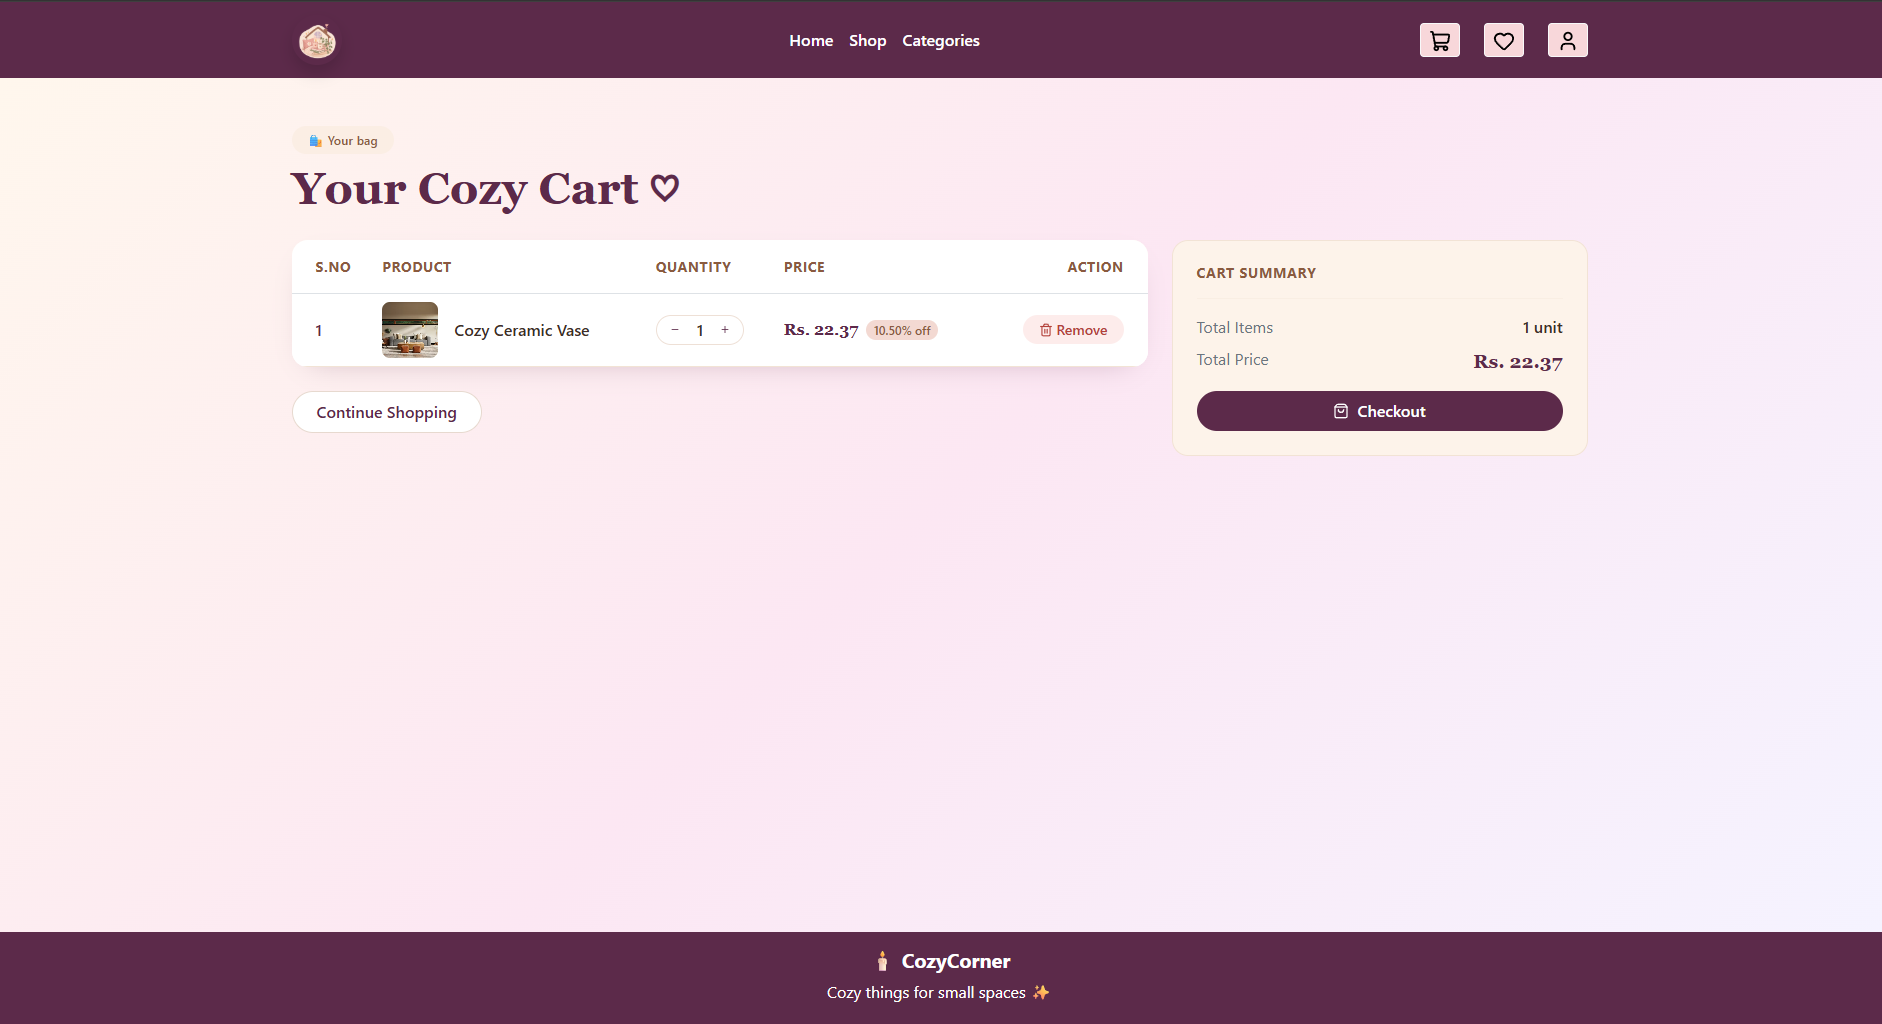
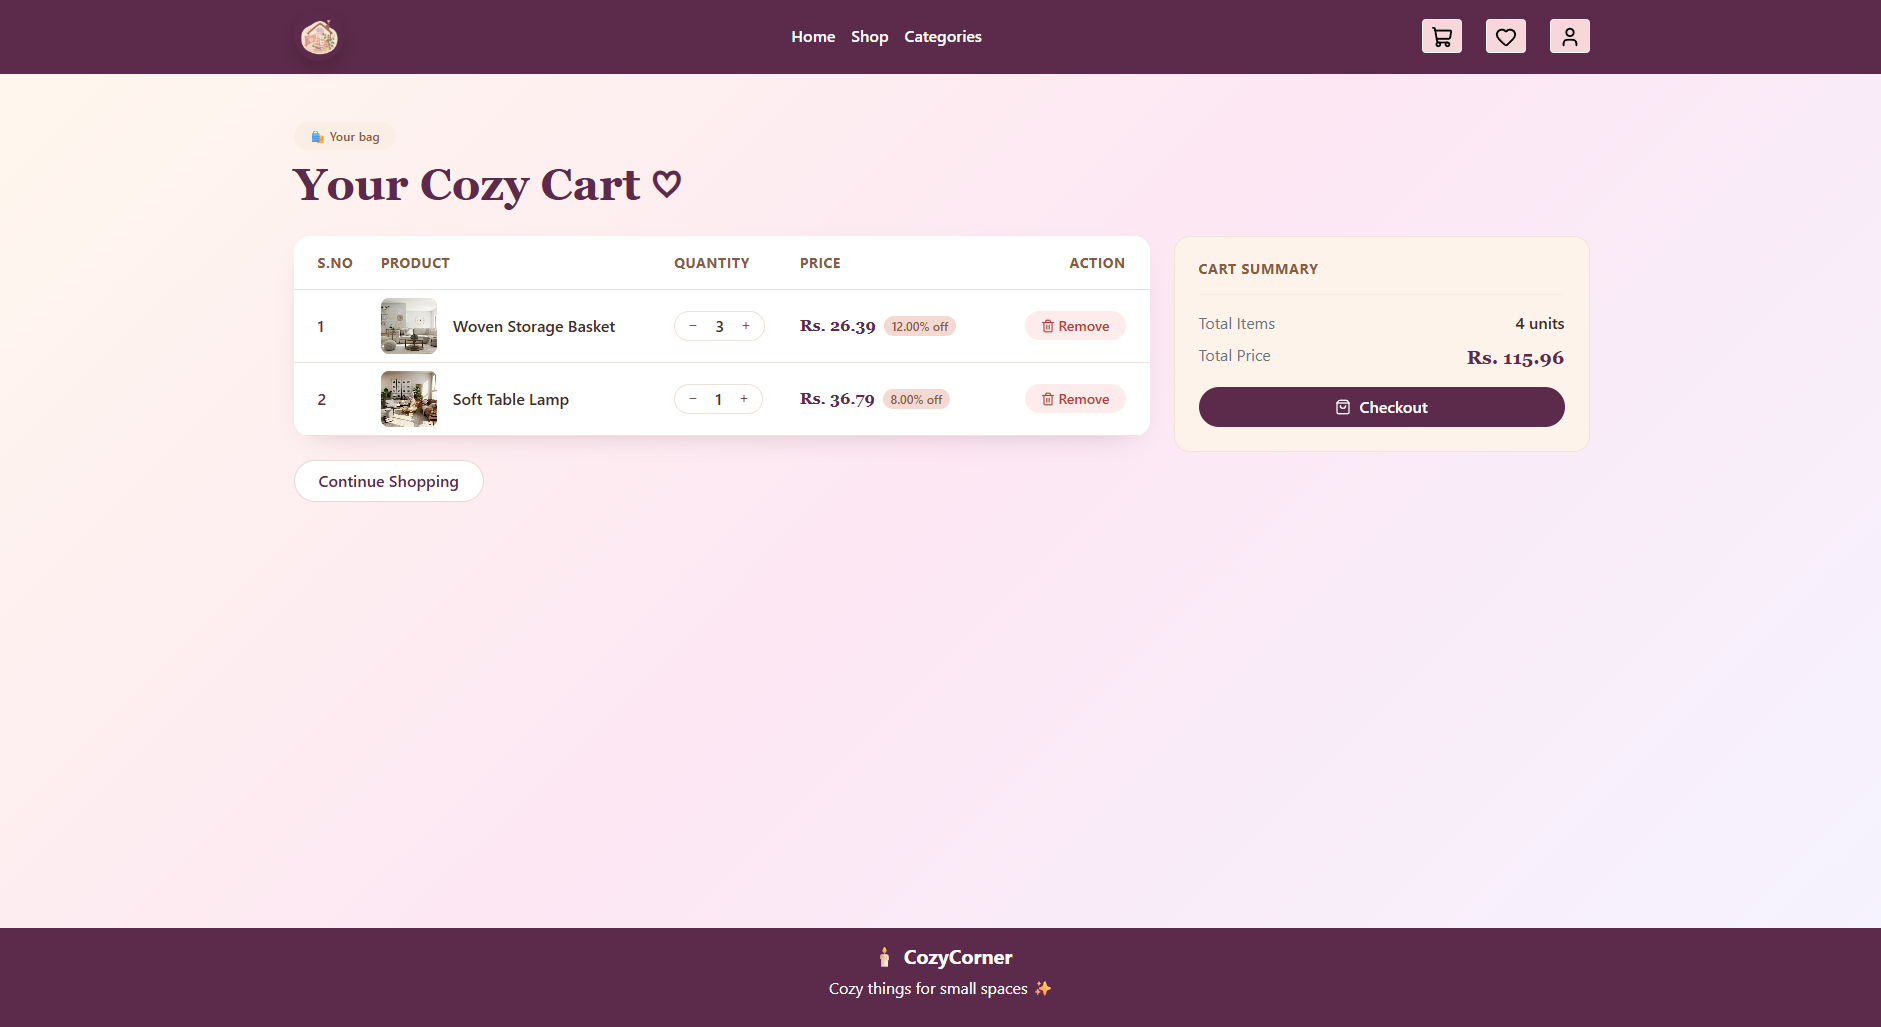
add README.md

diff --git a/README.md b/README.md
@@ -238,11 +238,14 @@ This allows cart, wishlist, and profile data to remain available when navigating
 ### 1. Homepage
 
 ![alt text](image.png)
+
 ![alt text](image-2.png)
 
 ### 2. Shop Page
 
 ![alt text](image-1.png)
+
+![alt text](image-6.png)
 
 ### 3. Cart / Wishlist / Profile
 
